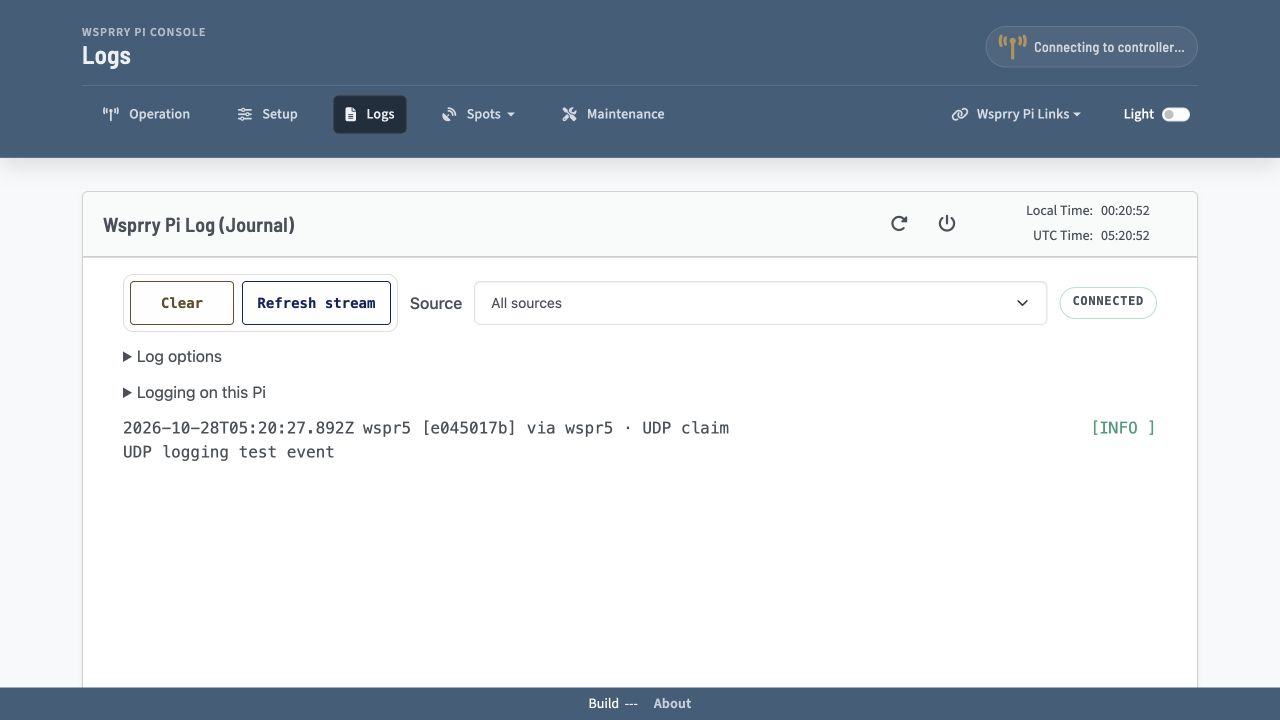
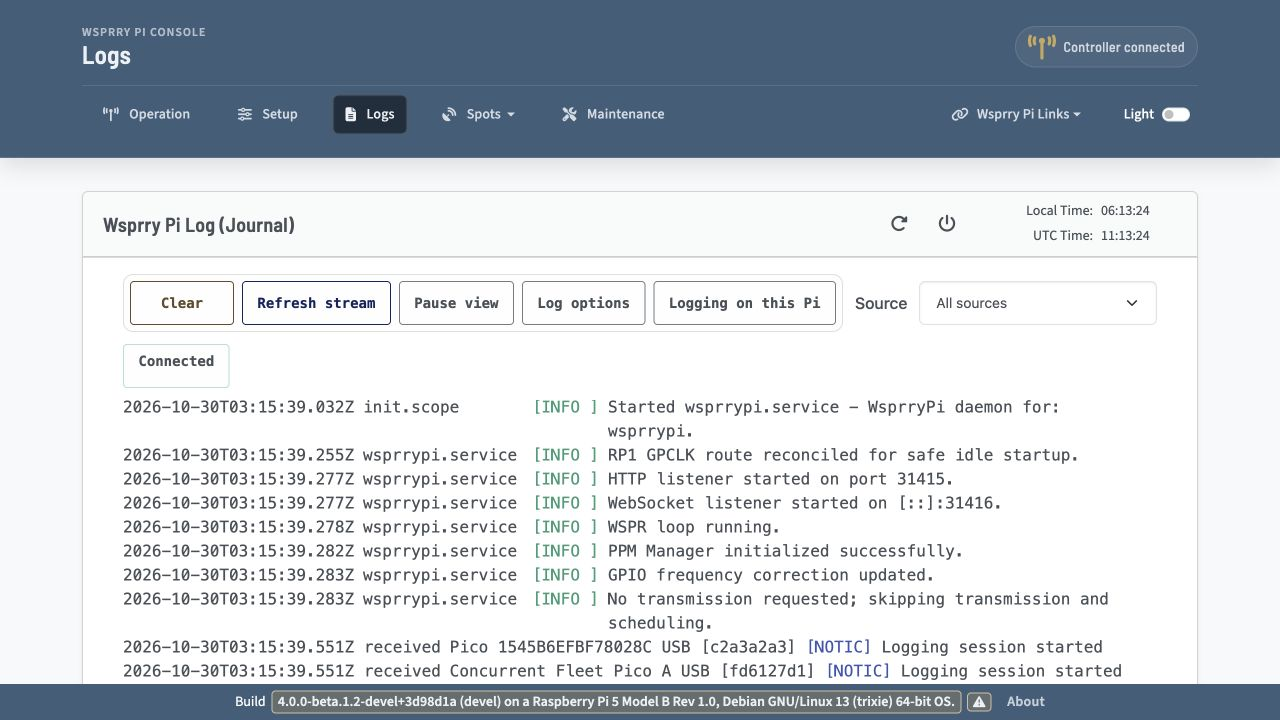
Refresh logging guide, screenshots, and installation wording

diff --git a/docs/User_Interface/Logs/index.md b/docs/User_Interface/Logs/index.md
@@ -1,15 +1,31 @@
 (log-card)=
 # Logs
 
-![WsprryPi Logs showing a received native Pi UDP test event](logs.png)
+![Logs with Clear, Refresh stream, Pause view, Log options and Logging on this Pi in the toolbar](logs.png)
 
-The log page auto-refreshes as your WsprryPi server generates logs. It accesses them from the Debian systemd-journald system.
+The Logs page reads the Pi's systemd journal and streams new records while the browser view is running.
 
-Choose **Source** beside **Clear** and **Refresh stream** to show **All sources**, **Local Pi**, an attached Pico or a network origin observed through a configured peer. Attached Picos appear before collection is enabled. Each Pico is identified by its saved name or USB serial and stable device ID. Selecting a source only filters the journal; save a USB device in Fleet before enabling its collection. The example above shows a received native Pi UDP test event.
+Choose **Source** to show **All sources**, **Local Pi**, an attached Pico or a network origin observed through a configured peer. Attached Picos appear before collection is enabled. Each Pico is identified by its saved name or USB serial and stable device ID. Selecting a source only filters the journal; save a USB device in Fleet before enabling its collection.
 
 The source selector and Pico log prefixes use the saved Fleet name when available, with the reported hostname as a fallback. Displayed names omit a terminal `.local`; log prefixes retain the bracketed short device ID. Refresh sources to read a renamed Fleet profile. Journal records and exports keep the full reported hostname, boot and event sequence. When the Pico has UTC, the displayed timestamp is its event time. Otherwise, **received** marks the Pi's receipt time. A host receipt time does not establish the Pico's clock accuracy.
 
-Open **Log options** to filter severity, **Pause view** or **Export visible logs**. Pause stops this browser's live view; **Resume view** continues from its journal cursor. Export saves the normalized records retained by this view as a JSON-lines file, including origin metadata. Clear removes the displayed records without deleting the system journal. Source and severity selections have separate resume cursors.
+## View controls
+
+The toolbar keeps the viewing actions available above the records:
+
+- **Clear** removes displayed records without deleting the system journal.
+- **Refresh stream** reconnects the current view. When disconnected, this button reads **Start stream**; **Connecting…** indicates a connection attempt in progress.
+- **Pause view** stops this browser's live view while collection continues. **Resume view** continues from the retained view's journal cursor.
+- **Log options** opens a dialog with severity filtering, **Refresh sources**, **Export visible logs** and the selected Pico's collection control. Collection feedback appears beside these controls.
+- **Logging on this Pi** opens a dialog for this Pi's UDP export, USB forwarding and network collection settings.
+
+The stream status, such as **Connected**, uses the same shape and text styling as the toolbar buttons. It reports the browser's viewing connection and is not an action button. A connected stream does not establish collector or sender health.
+
+![Log options dialog with severity, source refresh, export and Pico collection controls](log-options.png)
+
+Close either dialog with **Close**, the close icon or **Escape**. Closing **Logging on this Pi** keeps an unsaved draft available while the page remains open; choose **Save logging on this Pi** to apply it.
+
+**Export visible logs** saves the records retained by this view as a JSON-lines file, including origin metadata. Source or severity changes load recent matching history unless the view is paused. Reconnect and resume continue the retained view; reopening the page loads recent history. Clear preserves the current continuation point.
 
 ## Collect a Pico's USB logs
 
@@ -36,12 +52,14 @@ Console remains available while logs are collected. Firmware maintenance release
 
 Any Pi can collect logs independently of its Fleet controller/member role. Export and listening are disabled initially. UDP uses plaintext without authentication. Use a deliberately configured managed network; a successful send does not confirm receipt. An IPv4 peer list restricts admission but does not authenticate the sender.
 
-![Logging on this Pi with independent export and receive controls](udp-controls.png)
+The dialog scrolls within the window. Its lower section contains the listen address, interface, port, allowed senders and saved status.
 
-1. Open **Logging on this Pi** and choose **Read UDP logging settings**. Verify the displayed local collector ID before editing.
-2. Under **Receive network logs on this Pi**, enable network log collection. Enter this Pi's current IPv4 address, its interface name, and port **5514**. The listener binds that address and interface; it does not listen on every interface.
+![Logging on this Pi dialog scrolled to network collection settings and saved status](udp-controls.png)
+
+1. Open **Logging on this Pi** from the toolbar. Saved and active settings load automatically when the Logs page opens. Wait for loading to finish and verify the displayed local collector ID before editing. If loading fails, the fields stay disabled; choose **Retry loading settings** to try again.
+2. Scroll to **Receive network logs on this Pi** and select **Enable network log collection**. Enter this Pi's current IPv4 address, its interface name, and port **5514**. The listener binds that address and interface; it does not listen on every interface.
 3. Enter allowed senders as one unique slot and IPv4 address per line, such as `member-1 192.168.1.21`. Up to 32 peers are supported. An empty list admits nothing.
-4. Choose **Save logging on this Pi**, then read settings again. **Ready** means the listener is locally bound. Check the journal submission counter and actual records separately; journald can still discard a submitted record under its own limits.
+4. Choose **Save logging on this Pi**. The dialog automatically reads back the saved and active states. **Ready** means the listener is locally bound. Check the journal submission counter and actual records separately; journald can still discard a submitted record under its own limits.
 
 Port **514** is also supported through an explicitly managed systemd socket. A conflicting port is refused before the old listener is stopped. Installation does not open a firewall or replace another logging daemon. Unsupported software, inactive service, invalid policy and bind failure remain visible near the controls.
 
@@ -49,9 +67,11 @@ The `wsprrypi-log` service runs as the dedicated unprivileged `wsprrylog` user, 
 
 ## Send or forward logs from this Pi
 
-1. Read **Logging on this Pi** and enable **UDP log export**. Enter one collector IPv4 address, port and explicit outgoing interface. Hostnames, IPv6, broadcast, multicast and this Pi's own addresses are refused.
+![Automatically loaded UDP export destination, port, severity and interface fields](udp-export-controls.png)
+
+1. Open **Logging on this Pi**, wait for its settings to load and select **Enable UDP log export**. Enter one collector IPv4 address, port and explicit outgoing interface. Hostnames, IPv6, broadcast, multicast and this Pi's own addresses are refused.
 2. Select **Include native Pi events** for approved application diagnostics. Select up to eight attached-Pico sources to forward their already collected USB records. Save each source in Fleet and enable its USB export and collection first; forwarding selection does not enable either of them.
-3. Choose severity, event filters and rate limits, then **Save logging on this Pi** and read back. Valid drafts remain available after an error. After a conflict or uncertain reply, read again, compare **Saved UDP logging settings** with the preserved draft and choose **Confirm review** before another save.
+3. Choose severity, event filters and rate limits, then **Save logging on this Pi** and check the automatic readback. Drafts remain available after an error. After a conflict or uncertain reply, choose **Retry loading settings**, compare **Saved UDP logging settings** with the preserved draft and choose **Confirm review** before another save.
 4. For native export, **Test saved UDP export** admits one fixed diagnostic event. Its successful response means local admission. Confirm receipt independently in the destination journal and Logs view. USB forwarding can be checked with a finite sequence of Pico startup or connection events.
 
 Each sender uses one destination. The Pi exports approved native application events and selected USB sources. UDP imports remain local to their collector and cannot be forwarded onward, so configuring collectors in a cycle does not create a log-forwarding loop. The service starts at the current journal tail and has no durable replay spool. Enabling export excludes events created while it was disabled. Restart or journal rotation creates a visible discontinuity rather than catching up old traffic.
@@ -68,7 +88,7 @@ Source, peer address, ingress, severity, stream version and verified collector i
 
 ## Stop or remove network logging
 
-Disable export and network collection independently, save, and read back before removing software. Confirm the logging service/socket is inactive and no unintended listening endpoint remains. The normal WsprryPi remover stops the managed worker and socket and preserves its separate `<ini>.udp-logs.json` policy for deliberate deletion. It does not replace the host logging stack or change journald retention. Keep the recovery firmware bundle before a Pico rollback; a firmware image using the older, larger application region is refused after the new storage layout rather than erasing settings automatically.
+Disable export and network collection independently, save, and check the displayed saved and active states before removing software. Confirm the logging service/socket is inactive and no unintended listening endpoint remains. The normal WsprryPi remover stops the managed worker and socket and preserves its separate `<ini>.udp-logs.json` policy for deliberate deletion. It does not replace the host logging stack or change journald retention. Keep the recovery firmware bundle before a Pico rollback; a firmware image using the older, larger application region is refused after the new storage layout rather than erasing settings automatically.
 
 ## Journal history and retention
 

diff --git a/docs/Install/index.md b/docs/Install/index.md
@@ -37,7 +37,7 @@ This section may be the most challenging part of the whole installation.  *You m
 
 ![Raspberry Pi Imager](Raspberry_Pi_Imager.png)
 
-WsprryPi 4.0 Beta supports Raspberry Pi OS, formerly Raspbian, on both stable (Trixie) and oldstable (Bookworm). Precompiled executables cover supported 32-bit ARMv6 and 64-bit AArch64 installations, including Pi 1 and Pi Zero systems.
+WsprryPi 4.0 Beta supports Raspberry Pi OS, formerly Raspbian, on both Trixie (currently Debian stable) and Bookworm (currently Debian oldstable). Precompiled executables cover supported 32-bit ARMv6 and 64-bit AArch64 installations, including Pi 1 and Pi Zero systems.
 
 Use the [current Beta installer](beta1.md) for automatic binary downloads. The stable-channel commands on this page continue to build the current stable application from source. OS support does not qualify every transmitter or band; see the [band qualification table](../About_Wsprry_Pi/index.md#band-qualification).
 
@@ -141,7 +141,7 @@ This option leaves the existing UI in place instead of creating a replacement ba
 
 ### Release binary or source build
 
-The [current beta installer](beta1.md) downloads the newest published executable for the selected branch that matches your Pi's operating-system release and userspace architecture. Prereleases for that branch are eligible. Published builds cover stable (Trixie) and oldstable (Bookworm) on supported 32-bit and 64-bit Pis. This default is available through the updated `devel` installer; the stable-channel commands above still build from source.
+The [current beta installer](beta1.md) downloads the newest published executable for the selected branch that matches your Pi's operating-system release and userspace architecture. Prereleases for that branch are eligible. Published builds cover Trixie (currently Debian stable) and Bookworm (currently Debian oldstable) on supported 32-bit and 64-bit Pis. This default is available through the updated `devel` installer; the stable-channel commands above still build from source.
 
 With a compatible release executable, installation skips application compilation, its build dependencies, build-memory and swap checks, temporary build-swap preparation, and compilation-time and parallelism estimates. This also applies on Pi 5-family systems when the RP1 GPIO driver is selected. This can save up to an hour on older hardware such as the Pi 1 and Pi Zero. It still installs runtime dependencies and supporting files. Pi 5-family RP1 GPIO driver preparation remains separate and can still require compilation tools and matching kernel headers.
 

diff --git a/docs/Install/beta1.md b/docs/Install/beta1.md
@@ -12,7 +12,7 @@ WsprryPi 4.0 Beta 1 is published as [`v4.0.0-beta.1`](https://github.com/WsprryP
 
 ## Release binary or source build
 
-Precompiled WsprryPi binaries are available again for Raspberry Pi OS, formerly Raspbian, supporting stable (Trixie) and oldstable (Bookworm) on supported 32-bit ARMv6 and 64-bit AArch64 installations. Avoiding application compilation can save up to an hour on older hardware such as the Pi 1 and Pi Zero.
+Precompiled WsprryPi binaries are available again for Raspberry Pi OS, formerly Raspbian, supporting Trixie (currently Debian stable) and Bookworm (currently Debian oldstable) on supported 32-bit ARMv6 and 64-bit AArch64 installations. Avoiding application compilation can save up to an hour on older hardware such as the Pi 1 and Pi Zero.
 
 The installer chooses the matching download automatically and checks the executable's architecture, runtime libraries and published SHA-256 checksum when available. Beta 1 supplies these checksums. You do not need to download an asset or place a `wsprrypi` file in your home directory first.
 
